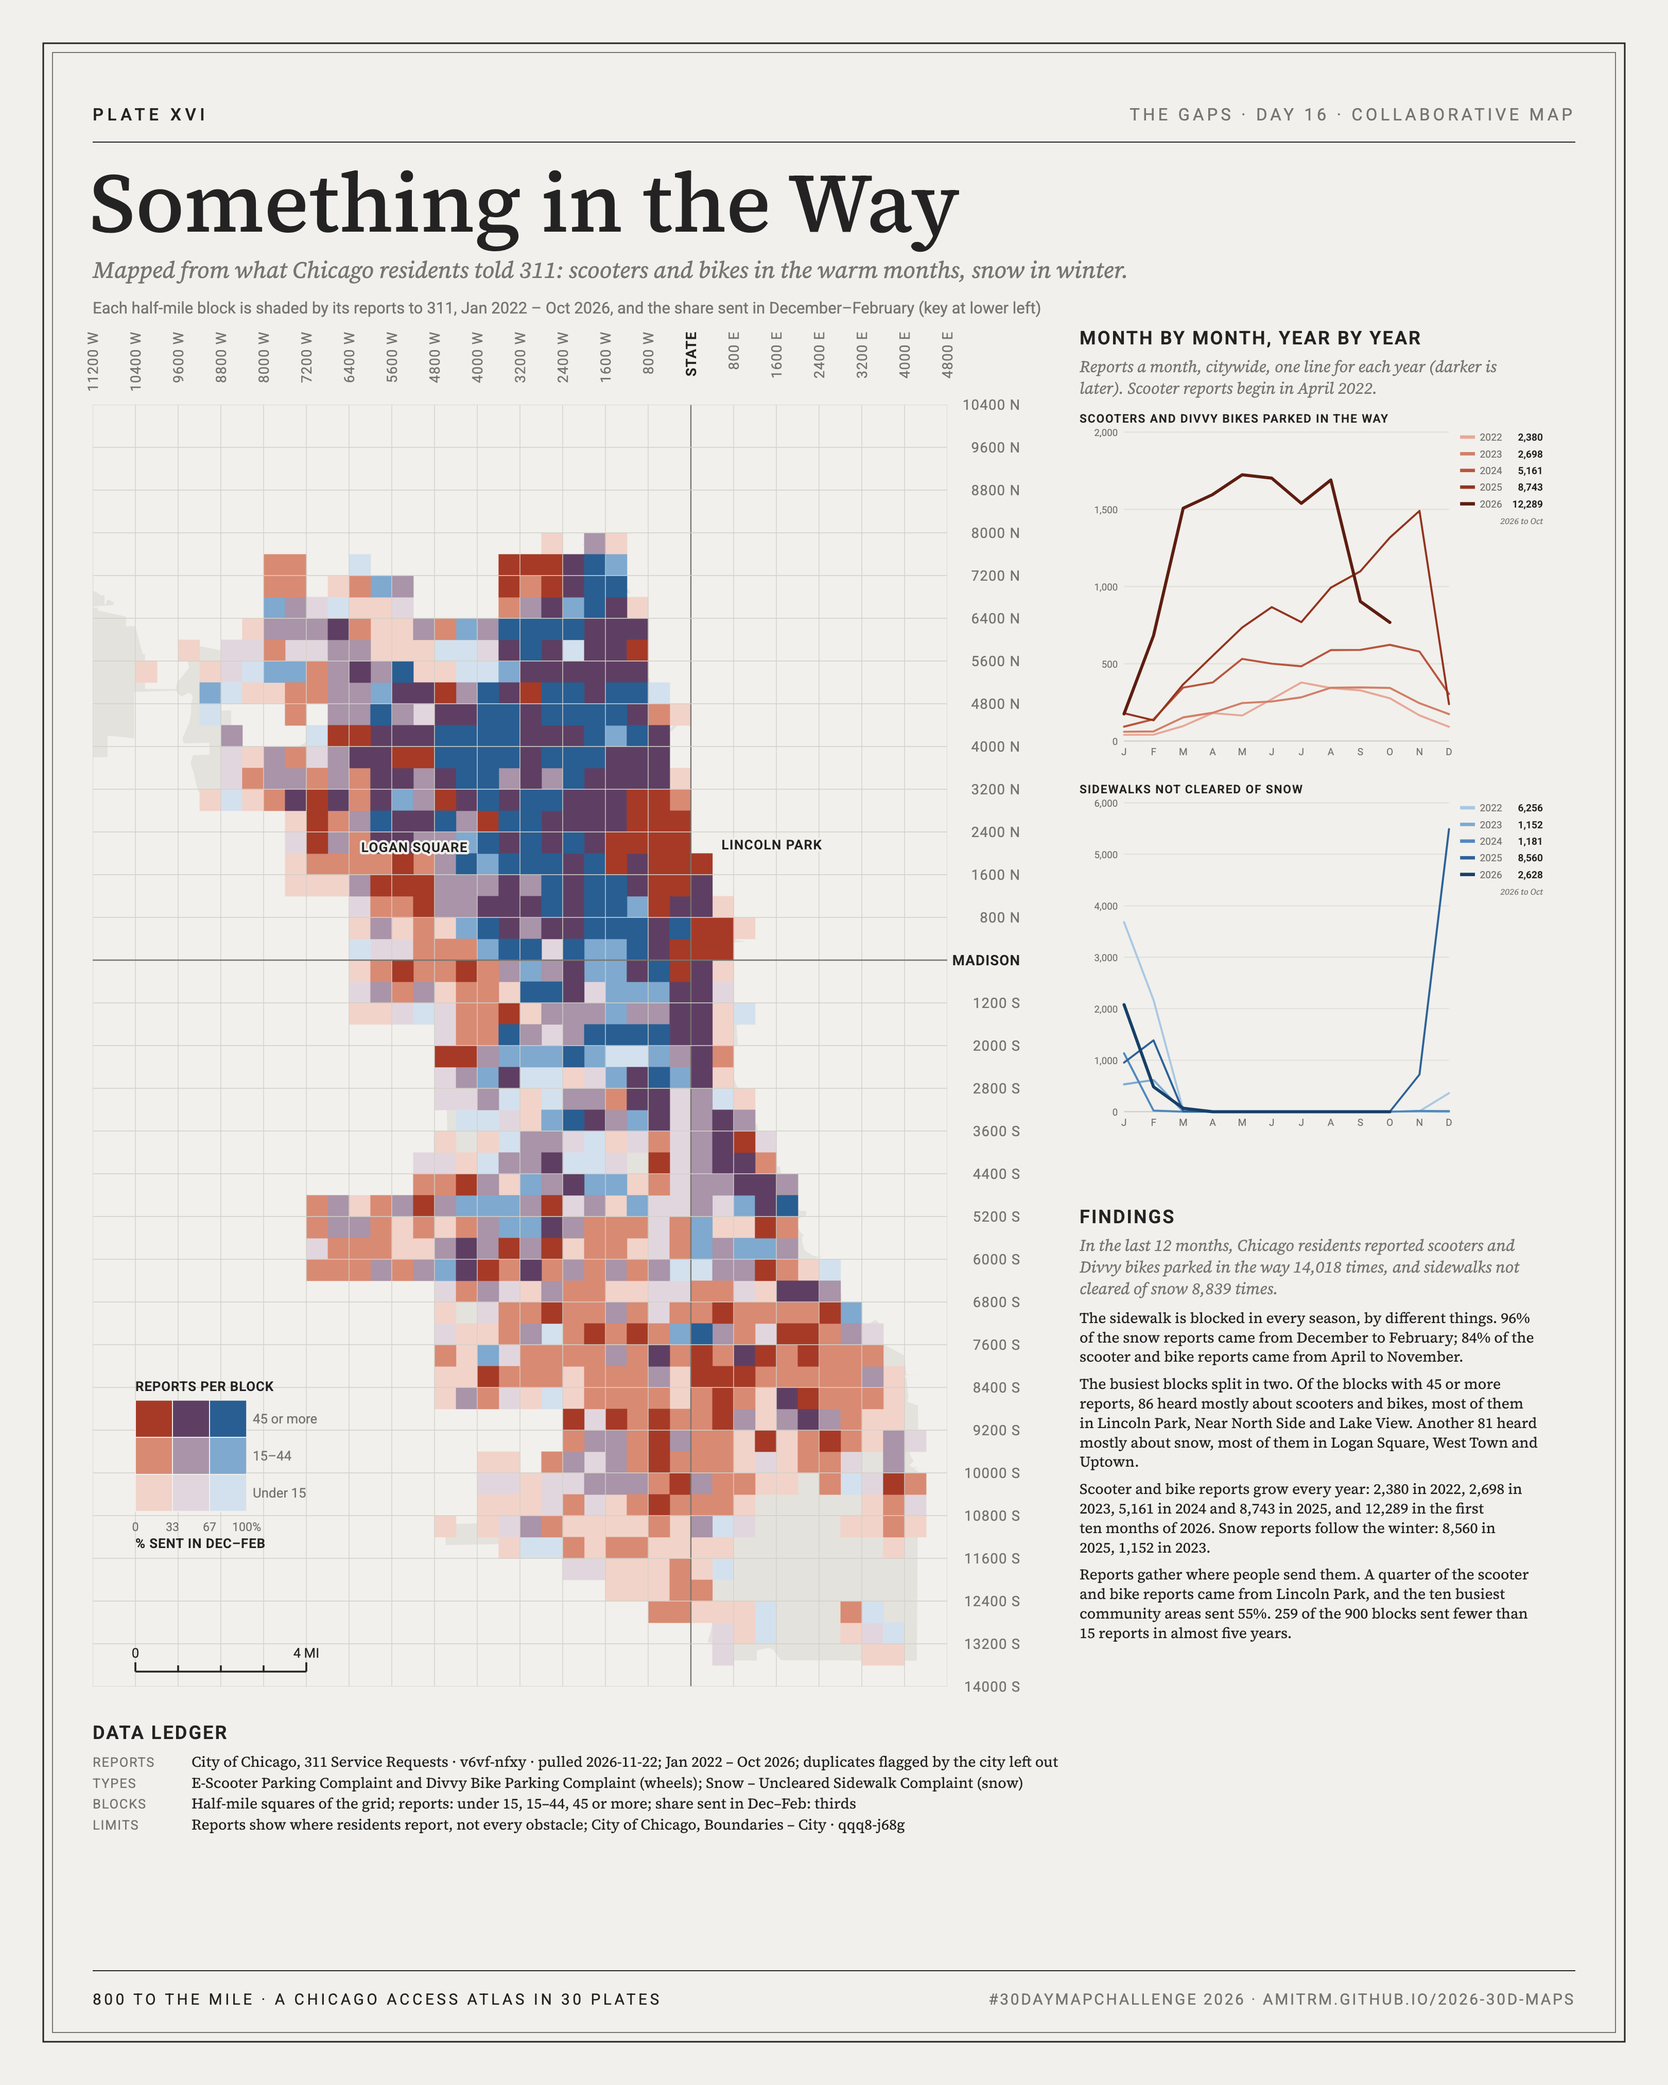
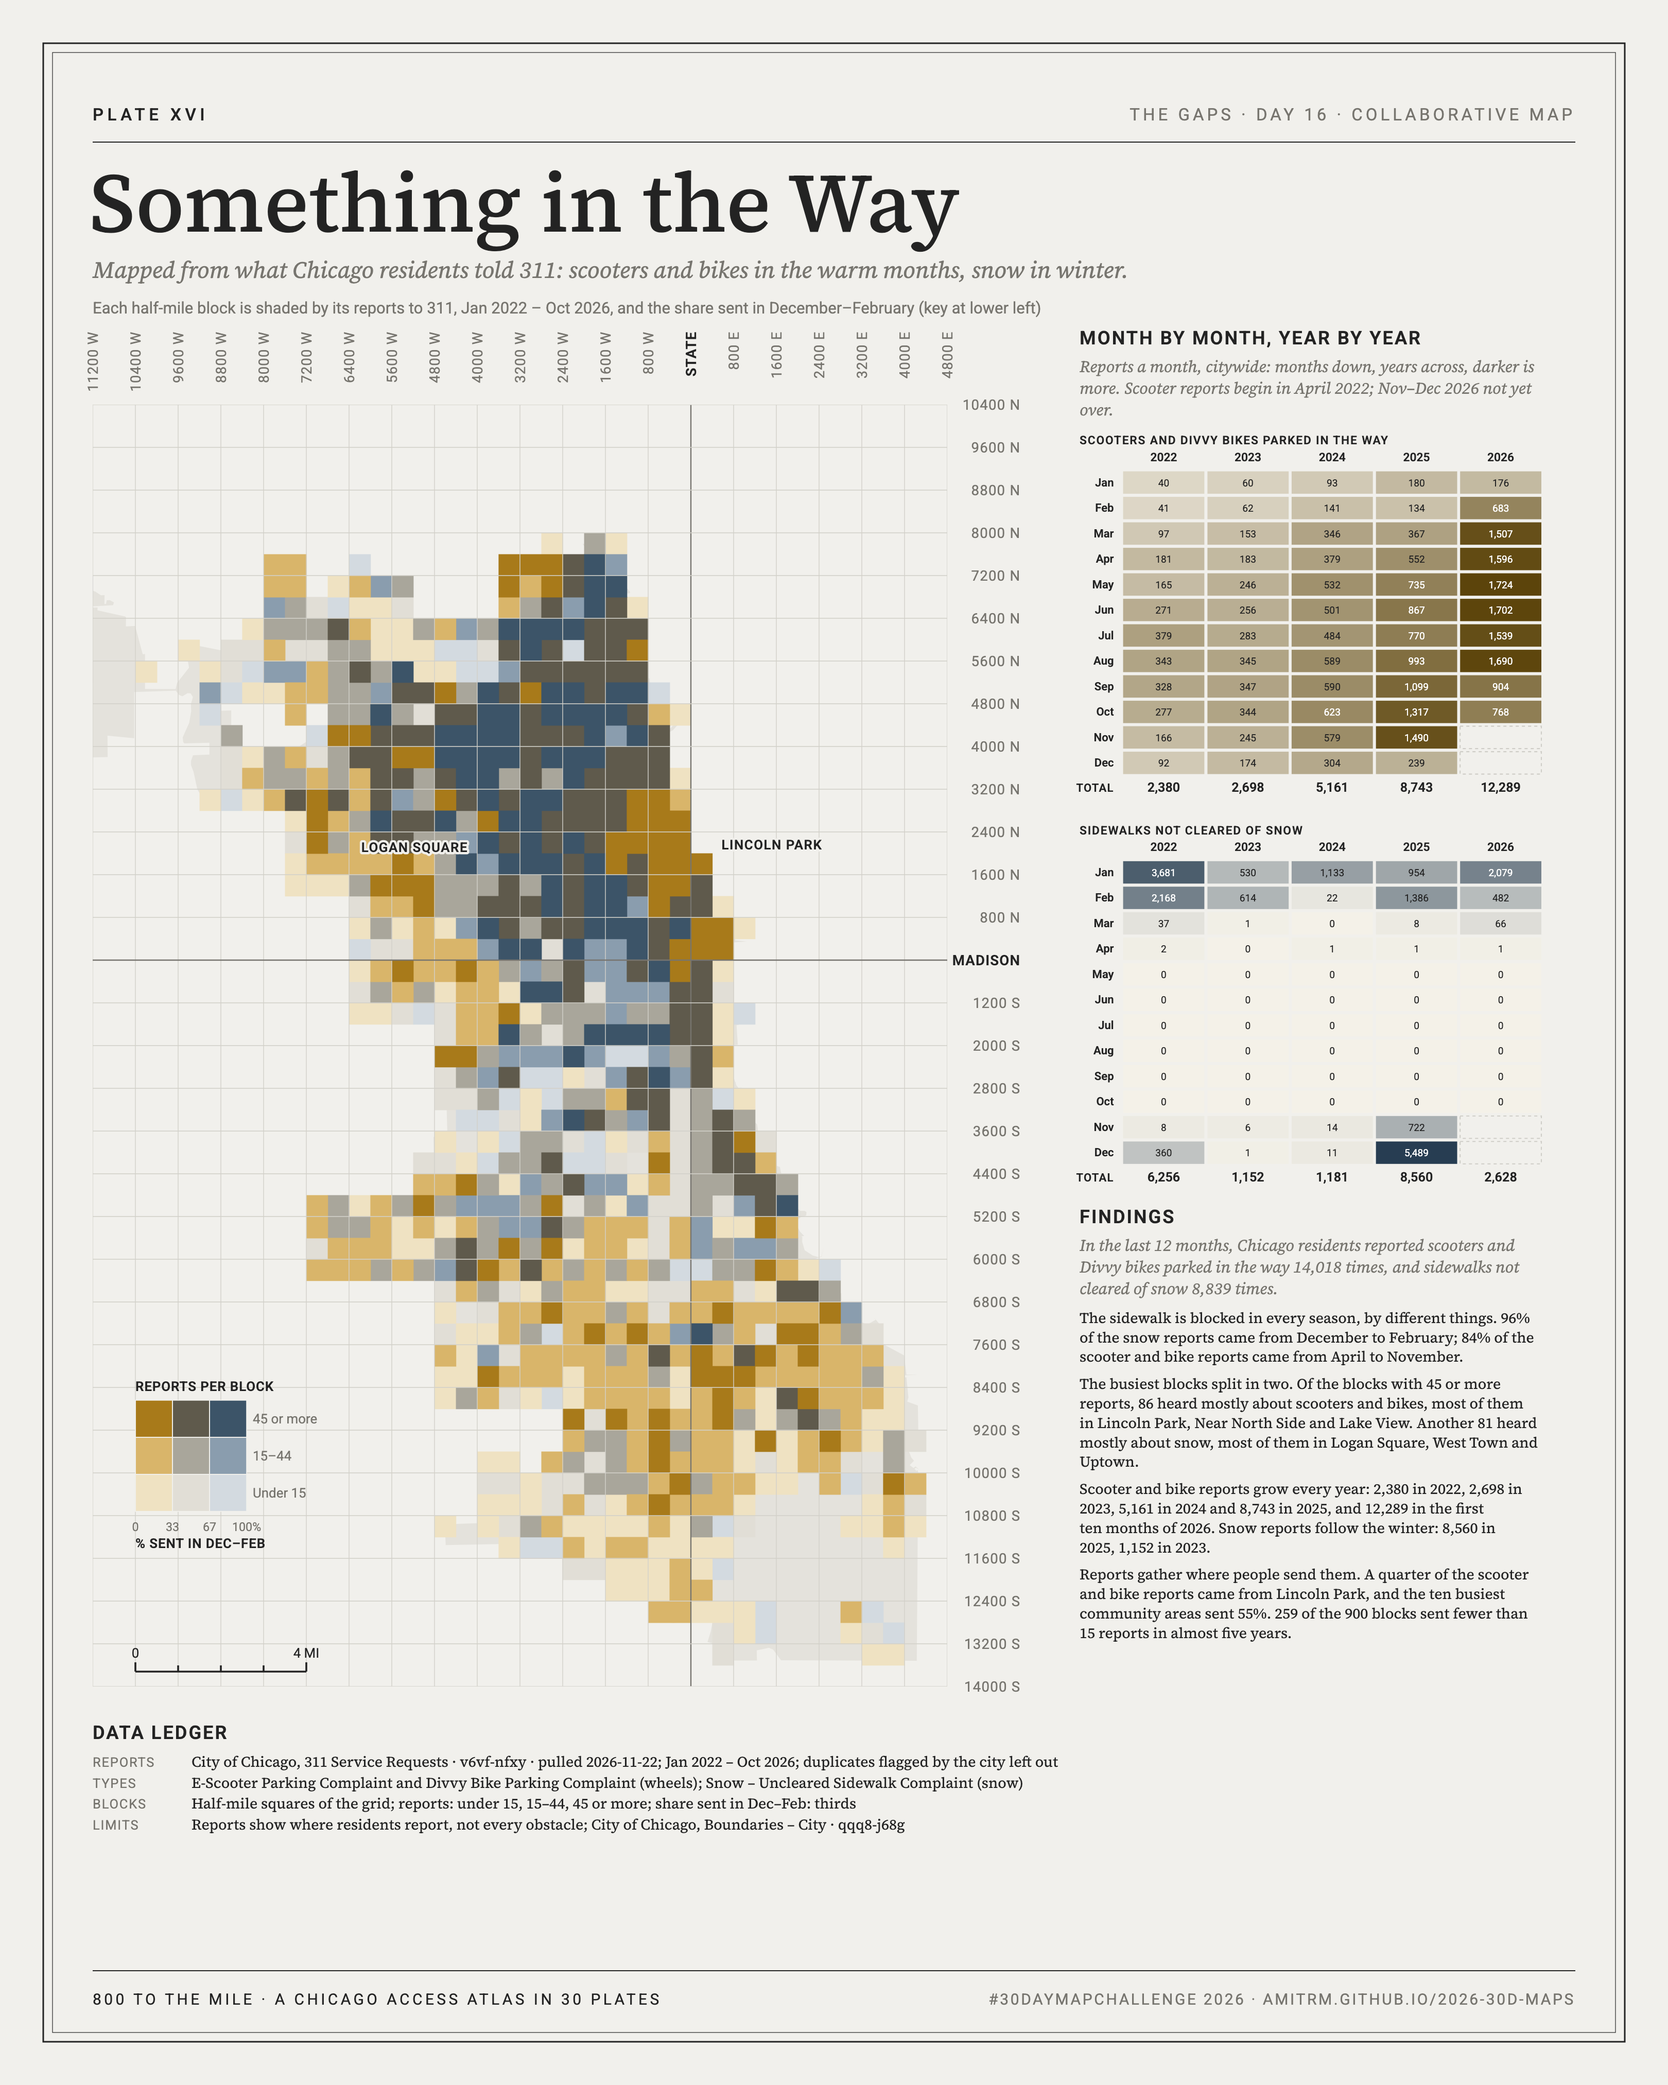
Day 16: ochre/slate palette; month-by-year tables in the middle column

diff --git a/src/plates/day16.js b/src/plates/day16.js
@@ -11,13 +11,13 @@ import { gridLines, formatAddress, toMiles } from '../lib/grid.js';
 // variant 'chart': two charts, reports a month, one line per year: wheels, then snow. It fills the
 //   page's middle column (no inset). Hover a month for every year's count.
 
-// Color: brick for the warm months (wheels), blue for winter (snow), plum between; darker = more reports.
+// Color: ochre for the warm months (wheels), slate for winter (snow), warm gray between; darker = more reports.
 // Grayscale: tone for reports, an ink square for the share in winter (Plate IX's way).
 export const PAL = {
   color: {
-    bivar: [['#F2D3C9', '#E2D6DE', '#D3E1EE'], ['#D98A73', '#A994A9', '#7FA9CF'], ['#A63A26', '#5E3F63', '#285E92']],
-    wheels: '#A63A26', snow: '#285E92',
-    years: { wheels: ['#E7A897', '#D27E68', '#B9553E', '#93341F', '#5E1D10'], snow: ['#A9C8E3', '#7BAAD3', '#4F88BD', '#2D6299', '#163F69'] },
+    bivar: [['#EFE2C2', '#E1DED6', '#D3DAE0'], ['#D9B56A', '#A9A69B', '#8A9DAE'], ['#A87A1A', '#5F5A4C', '#3C5468']],
+    wheels: '#A87A1A', snow: '#3C5468',
+    years: { wheels: ['#E3C98A', '#D2AE5C', '#B88D2E', '#8E6A16', '#5C440B'], snow: ['#B7C4CF', '#8FA2B3', '#677F95', '#45607A', '#273D52'] },
   },
   gray: {
     tones: ['#DAD8D2', '#AEACA6', '#7E7C76'], sizes: [0, 0.34, 0.62],
@@ -186,7 +186,7 @@ export function renderDay16(data, { mode = 'gray', variant = 'plate' } = {}) {
       const items = [
         ['head', `Each half-mile block, ${win}`],
         ...(b
-          ? [[sw(b[2][0]), 'Brick: many reports, mostly Mar–Nov (scooters, bikes)'], [sw(b[2][2]), 'Blue: many reports, mostly Dec–Feb (snow)'], [sw(b[2][1]), 'Plum: both'], [sw(b[0][1]), 'Pale: few reports']]
+          ? [[sw(b[2][0]), 'Ochre: many reports, mostly Mar–Nov (scooters, bikes)'], [sw(b[2][2]), 'Slate: many reports, mostly Dec–Feb (snow)'], [sw(b[2][1]), 'Dark gray: both'], [sw(b[0][1]), 'Pale: few reports']]
           : [[sw(pal.tones[2]), 'Darker gray: more reports'], [sw(pal.tones[1], pal.sizes[2]), 'Ink square: more of them in Dec–Feb (snow)']]),
       ];
       const box = legendBox(items, { x: rx, bottom: Y(ext.south) - k, k, size: lgs });
@@ -208,56 +208,55 @@ export function renderDay16(data, { mode = 'gray', variant = 'plate' } = {}) {
       .replace('<svg ', `<svg data-top="${labelTop - 184}" data-bottom="${fy1 - 184}" data-ftop="${+(fy0 - 184).toFixed(2)}" data-ppm="${+k.toFixed(3)}" `);
   }
 
-  // ---------- the two charts: reports a month, one line per year ----------
+  // ---------- the two matrices: months down, years across, cells shaded by reports ----------
   const years = s.years.map(String);
-  const charts = (x0, top, w, size) => {
+  const LIGHT = '#F4F1E8';
+  const mix = (c1, c2, f) => '#' + [1, 3, 5].map((i) => Math.round(parseInt(c1.slice(i, i + 2), 16) * (1 - f) + parseInt(c2.slice(i, i + 2), 16) * f).toString(16).padStart(2, '0')).join('');
+  const charts = (x0, top, w, size, ch) => {
     const o = [];
     let y = top;
     const lastYear = years.at(-1), lastM = Number(s.window[1].slice(5, 7)) - 1; // the window ends before this month's first day
     for (const [grp, head] of [['wheels', 'SCOOTERS AND DIVVY BIKES PARKED IN THE WAY'], ['snow', 'SIDEWALKS NOT CLEARED OF SNOW']]) {
-      const ramp = pal.years[grp];
+      const dark = pal.years[grp].at(-1);
       o.push(text(x0, y + size * 0.85, head, { size: size * 0.95, weight: 600, spacing: 0.6 }));
-      y += size * 1.6;
-      const h = size * (isPlate ? 25 : 26), L = size * 3.6, R = size * 7.6;
-      const cx0 = x0 + L, cx1 = x0 + w - R;
+      y += size * 2.2;
+      const L = size * 3.4, cw = (w - L) / years.length;
       const max = Math.max(...years.flatMap((yr) => monthly[grp][yr]));
-      const stepV = max > 3000 ? 1000 : max > 1200 ? 500 : 250;
-      const top2 = Math.ceil(max / stepV) * stepV;
-      const Xc = (m) => cx0 + ((m - 1) / 11) * (cx1 - cx0);
-      const Yc = (v) => y + h - (v / top2) * h;
-      for (let v = 0; v <= top2; v += stepV) {
-        o.push(`<line x1="${r1(cx0)}" x2="${r1(cx1)}" y1="${r1(Yc(v))}" y2="${r1(Yc(v))}" stroke="${v ? C.rule : C.fog}" stroke-width="0.7"/>`);
-        o.push(text(r1(cx0 - 4), r1(Yc(v) + size * 0.3), fmt(v), { size: size * 0.78, fill: C.pencil, anchor: 'end' }));
+      years.forEach((yr, j) => o.push(text(r1(x0 + L + (j + 0.5) * cw), r1(y), yr, { size: size * 0.95, weight: 600, anchor: 'middle' })));
+      y += size * 0.7;
+      for (let m = 1; m <= 12; m++) {
+        const cy = y + (m - 1) * ch;
+        o.push(text(r1(x0 + L - 5), r1(cy + ch / 2 + size * 0.3), MONTH_LONG[m - 1].slice(0, 3), { size: size * 0.92, weight: 600, anchor: 'end' }));
+        years.forEach((yr, j) => {
+          const cx = x0 + L + j * cw;
+          if (yr === lastYear && m > lastM) {
+            o.push(`<rect x="${r1(cx + 1)}" y="${r1(cy + 1)}" width="${r1(cw - 2)}" height="${r1(ch - 2)}" fill="none" stroke="${C.fog}" stroke-width="0.7" stroke-dasharray="2 2"/>`);
+            return;
+          }
+          const v = monthly[grp][yr][m - 1];
+          const fill = mix(LIGHT, dark, Math.sqrt(v / max)); // square root: small months still show
+          o.push(`<rect x="${r1(cx + 1)}" y="${r1(cy + 1)}" width="${r1(cw - 2)}" height="${r1(ch - 2)}" fill="${fill}"/>`);
+          o.push(text(r1(cx + cw / 2), r1(cy + ch / 2 + size * 0.3), fmt(v), { size: size * 0.8, fill: isDark(fill) ? '#FFFFFF' : C.ink, anchor: 'middle' }));
+          if (hooks) {
+            const sh = JSON.stringify({
+              num: `${MONTH_LONG[m - 1].slice(0, 3)} ${yr}`, name: '', sub: grp === 'wheels' ? 'Scooters and Divvy bikes' : 'Snow on the sidewalk', fill, on: isDark(fill) ? '#FFFFFF' : C.ink,
+              blocks: [{ sec: 'Reports to 311, citywide' }, { row: ['That month', fmt(v), `${Math.round((100 * v) / Math.max(1, s.yearTotals[grp][yr]))}% of the year`] }, { row: [`All of ${yr}${yr === lastYear ? ' (to Oct)' : ''}`, fmt(s.yearTotals[grp][yr])] }],
+            });
+            o.push(`<g data-kind="sheet" data-id="${grp}${yr}-${m}" data-tip="${MONTH_LONG[m - 1]} ${yr}" data-name="${MONTH_LONG[m - 1]} ${yr}" data-sheet="${attr(sh)}"><rect x="${r1(cx)}" y="${r1(cy)}" width="${r1(cw)}" height="${r1(ch)}" fill="transparent"/></g>`);
+          }
+        });
       }
-      for (let m = 1; m <= 12; m++) o.push(text(r1(Xc(m)), r1(y + h + size * 1.15), MONTH_1[m - 1], { size: size * 0.8, fill: C.pencil, anchor: 'middle' }));
-      years.forEach((yr, i) => {
-        const vals = monthly[grp][yr].slice(0, yr === lastYear ? lastM : 12);
-        const pts = vals.map((v, m) => `${r1(Xc(m + 1))},${r1(Yc(v))}`).join(' ');
-        o.push(`<polyline points="${pts}" fill="none" stroke="${ramp[i]}" stroke-width="${i === years.length - 1 ? 2 : 1.3}" stroke-linejoin="round" stroke-linecap="round"/>`);
-        const ly = y + size * 0.4 + i * size * 1.35;
-        o.push(`<line x1="${r1(cx1 + size * 0.9)}" x2="${r1(cx1 + size * 2.1)}" y1="${r1(ly)}" y2="${r1(ly)}" stroke="${ramp[i]}" stroke-width="2.2"/>`);
-        o.push(text(r1(cx1 + size * 2.5), r1(ly + size * 0.3), yr, { size: size * 0.8, fill: C.pencil }));
-        o.push(text(r1(x0 + w), r1(ly + size * 0.3), fmt(s.yearTotals[grp][yr]), { size: size * 0.8, weight: 600, anchor: 'end' }));
-      });
-      o.push(text(r1(x0 + w), r1(y + size * 0.4 + years.length * size * 1.35 + size * 0.3), `${lastYear} to ${lastMonth(s.window[1]).slice(0, 3)}`, { size: size * 0.7, fill: C.pencil, anchor: 'end', italic: true, font: SERIF }));
-      if (hooks) {
-        for (let m = 1; m <= 12; m++) {
-          const sh = JSON.stringify({
-            num: MONTH_1[m - 1], name: MONTH_LONG[m - 1], sub: grp === 'wheels' ? 'Scooters and Divvy bikes' : 'Snow on the sidewalk', fill: ramp.at(-1), on: '#FFFFFF',
-            blocks: [{ sec: 'Reports to 311, citywide' }, ...years.filter((yr) => yr !== lastYear || m <= lastM).map((yr) => ({ row: [yr, fmt(monthly[grp][yr][m - 1])] }))],
-          });
-          const hw = (cx1 - cx0) / 11;
-          o.push(`<g data-kind="sheet" data-id="${grp}${m}" data-tip="${MONTH_LONG[m - 1]}" data-name="${MONTH_LONG[m - 1]}" data-sheet="${attr(sh)}"><rect x="${r1(Xc(m) - hw / 2)}" y="${r1(y)}" width="${r1(hw)}" height="${r1(h)}" fill="transparent"/></g>`);
-        }
-      }
-      y += h + size * 3.4;
+      y += 12 * ch + size * 1.3;
+      o.push(text(r1(x0 + L - 5), r1(y), 'TOTAL', { size: size * 0.92, weight: 600, spacing: 0.4, anchor: 'end' }));
+      years.forEach((yr, j) => o.push(text(r1(x0 + L + (j + 0.5) * cw), r1(y), fmt(s.yearTotals[grp][yr]), { size: size * 1.05, weight: 600, anchor: 'middle' })));
+      y += size * 2.6;
     }
-    return { svg: o.join(''), height: y - size * 1.6 - top };
+    return { svg: o.join(''), height: y - size * 2.6 - top + size * 0.5 };
   };
 
   if (isChart) {
     const cw = 390, size = 8 * T;
-    const c = charts(0, 4, cw, size);
+    const c = charts(0, 4, cw, size, size * 2.45);
     return svg(c.svg, { label: chartLabel(s), viewBox: `0 0 ${cw} ${Math.ceil(c.height + 8)}`, align: 'xMidYMin meet' });
   }
 
@@ -271,7 +270,7 @@ export function renderDay16(data, { mode = 'gray', variant = 'plate' } = {}) {
   const noteLines = wrap(CHART_NOTE, Math.floor(W_COL / (ns * 0.45)));
   noteLines.forEach((l, i) => note(uy + (i + 1) * nh + 4, l));
   uy += noteLines.length * nh + 16;
-  out.push(charts(mx, uy, W_COL, 8).svg);
+  out.push(charts(mx, uy, W_COL, 8, 16.5).svg);
 
   const findingsH = 330;
   let fy = Math.round(fy1 - findingsH + 30);
@@ -306,7 +305,7 @@ export function renderDay16(data, { mode = 'gray', variant = 'plate' } = {}) {
 
 const W_COL = 300;
 export const CHART_TITLE = 'Month by month, year by year';
-export const CHART_NOTE = 'Reports a month, citywide, one line for each year (darker is later). Scooter reports begin in April 2022.';
+export const CHART_NOTE = 'Reports a month, citywide: months down, years across, darker is more. Scooter reports begin in April 2022; Nov–Dec 2026 not yet over.';
 
 const mapLabel = (s) =>
   `Plate XVI, Something in the Way: half-mile blocks of Chicago shaded by the 311 reports residents sent about scooters, Divvy bikes and uncleared snow on the sidewalk, and by the share sent in winter. In the last 12 months: ${fmt(s.wheels12)} reports of wheels, ${fmt(s.snow12)} of snow.`;

diff --git a/src/plates/index.js b/src/plates/index.js
@@ -601,7 +601,7 @@ const d16Story = {
   sections: [
     ['Background', [
       'This map was made with Chicago residents. Each block’s color comes from the reports they sent to 311, the city’s service line, about something in the way on the sidewalk: a scooter or a Divvy bike parked across it, or snow nobody cleared. For a wheelchair user, a parent with a stroller or anyone who cannot step around it, either one can end the walk.',
-      `From ${d16Win} they sent ${fmt(d16.reports)} such reports. The map cuts the city into half-mile blocks and shades each one twice: by how many reports it got, and by the share sent in December to February. In color, brick blocks heard mostly about scooters and bikes, blue blocks mostly about snow, plum blocks about both; darker means more reports. In grayscale, darker means more reports and a larger ink square means more of them came in winter. The two charts give every month of every year. Hover a block or a month for its counts.`,
+      `From ${d16Win} they sent ${fmt(d16.reports)} such reports. The map cuts the city into half-mile blocks and shades each one twice: by how many reports it got, and by the share sent in December to February. In color, ochre blocks heard mostly about scooters and bikes, slate blocks mostly about snow, dark gray blocks about both; darker means more reports. In grayscale, darker means more reports and a larger ink square means more of them came in winter. The two tables in the middle give every month of every year, darker where there were more reports. Hover a block or a cell for its counts.`,
     ]],
     ['Findings', [
       day16Data.finding,
@@ -1083,7 +1083,7 @@ export const plates = {
     ledger: [
       ['Reports', `City of Chicago, 311 Service Requests · ${day16Data.dataset} · pulled ${day16Data.ledger.pulled}: three request types, ${d16Win}. Scooters and bikes: E-Scooter Parking Complaint (${fmt(d16.scooter)}) and Divvy Bike Parking Complaint (${fmt(d16.divvy)}). Snow: Snow – Uncleared Sidewalk Complaint (${fmt(d16.snow)}). Reports the city flags as duplicates, and the few without a location, are left out.`, day16Data.sources.sr311],
       ['Blocks', `Half-mile squares of the mile grid; each report counts in the block that holds it. Reports per block: ${d16Classes(d16Br).join(', ').toLowerCase()}. Share sent in December–February: under a third, a third to two thirds, over two thirds.`],
-      ['Charts', 'Reports a month, citywide, one line for each calendar year.'],
+      ['Tables', 'Reports a month, citywide: months down, calendar years across; each cell shaded on a square-root scale of its table’s largest month.'],
       ['Areas', 'City of Chicago, Boundaries – Community Areas, as recorded on each report.', day16Data.sources.areas],
       ['Notes', `Snow – Object/Dibs Removal Request (${fmt(d16.dibs)}) and Submerged Divvy or Lime Device in the Lake/River (${d16.sunk}), same window; counted, not drawn.`],
       ['Grid', 'Each square is one mile, measured from State & Madison, and grid lines carry address numbers. The first mile south of Madison runs to Roosevelt Road (1200 S).'],
